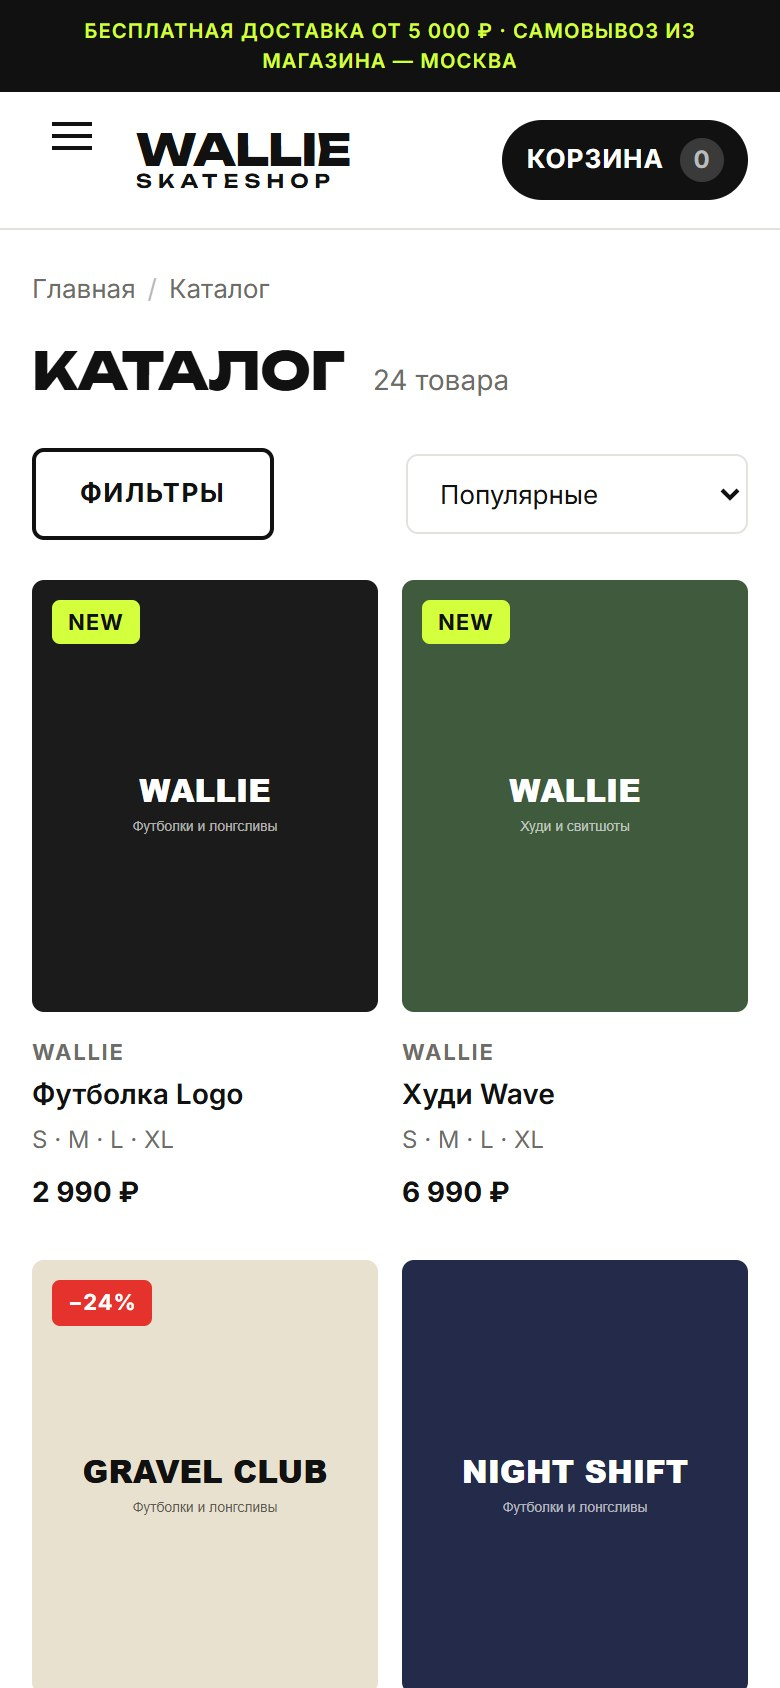
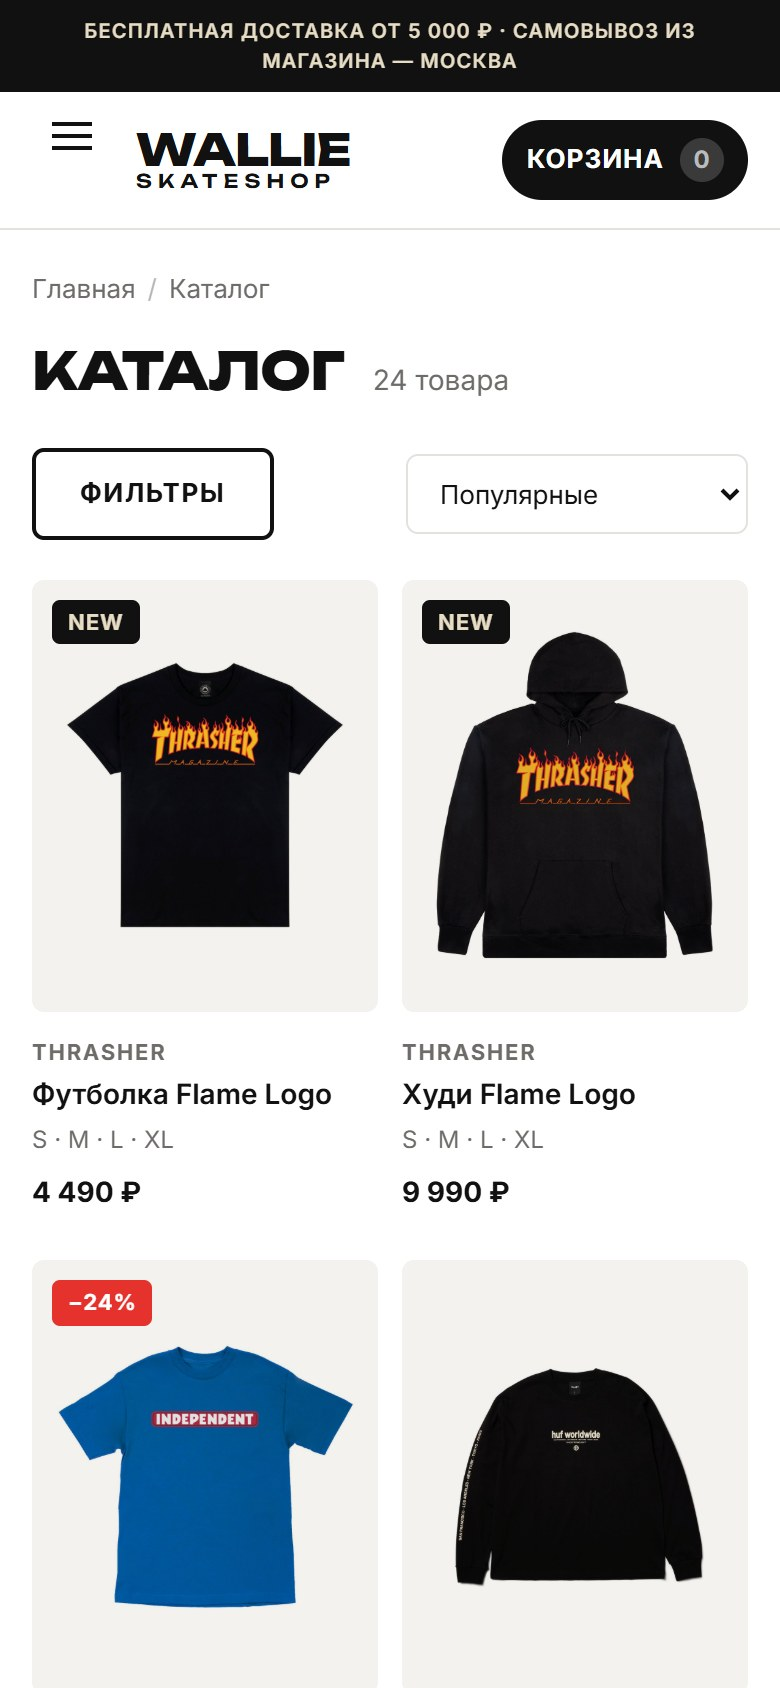
Add files via upload

diff --git a/js/projects.js b/js/projects.js
@@ -54,12 +54,12 @@ window.PROJECTS = [
         status: "done",
         cover: "assets/skateshop-index.jpg",
         gallery: [
-            { src: "assets/skateshop-index.jpg", mobile: "assets/skateshop-index-m.jpg", caption: "Главная: баннеры и лента новинок" },
+            { src: "assets/skateshop-index.jpg", mobile: "assets/skateshop-index-m.jpg", caption: "Главная: слайдер подборок с макро-кадрами брендов" },
             { src: "assets/skateshop-catalog.jpg", mobile: "assets/skateshop-catalog-m.jpg", caption: "Каталог с фильтрами по брендам, размерам и цене" },
             { src: "assets/skateshop-product.jpg", mobile: "assets/skateshop-product-m.jpg", caption: "Карточка товара с выбором размера" }
         ],
         description: [
-            "Учебный интернет-магазин скейтшопа: главная с баннерами и подборками, каталог, карточки товаров, корзина и страница о магазине.",
+            "Учебный интернет-магазин скейтшопа: главная с баннерами и подборками, каталог, карточки товаров, корзина и страница о магазине. В каталоге реальные вещи Thrasher, Polar, HUF, Baker, Independent, Santa Cruz и других брендов с официальными фото.",
             "Каталог целиком задаётся параметрами в адресе — фильтры, поиск и сортировку можно сохранить или отправить ссылкой. Корзина хранится в localStorage, товары, бренды и категории — в одном файле с данными, меню и фильтры собираются из него автоматически."
         ],
         role: "Дизайн и вёрстка, каталог с фильтрами, корзина",
